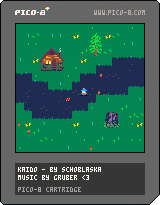
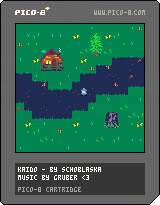
change leaves

diff --git a/docs/kaido.html b/docs/kaido.html
@@ -982,7 +982,7 @@ canvas{
 
 .p8_start_button{
 	cursor:pointer;
[2 lines of base64/hex data omitted]
 	-repeat center;
 	-webkit-background-size:cover; -moz-background-size:cover; -o-background-size:cover; background-size:cover;
 }

diff --git a/docs/kaido.js b/docs/kaido.js
@@ -3,8 +3,8 @@ var _cdpos=0; var iii=0; var ciii=0;
 var _cartdat=[
 0,0,0,0,51,51,51,51,51,51,51,51,51,51,51,51,51,51,51,51,51,51,51,51,51,51,51,51,51,51,33,85,51,51,33,85,17,51,51,51,17,51,51,51,0,0,0,0,0,0,0,0,0,0,0,0,0,0,0,0,0,0,0,0,0,0,0,0,51,51,51,59,51,51,179,51,51,67,51,51,51,52,51,51,51,51,51,51,51,51,51,51,51,19,33,221,51,19,33,221,93,85,81,51,93,85,81,51,0,0,0,0,0,0,0,0,11,0,0,0,11,0,0,0,0,0,0,0,0,7,112,0,51,51,51,59,51,51,51,59,51,51,51,51,51,51,51,51,51,51,51,51,51,51,51,51,51,17,33,221,51,17,33,221,209,17,17,51,209,17,17,51,0,0,0,176,0,0,0,176,11,0,0,0,11,0,0,0,0,0,0,0,0,112,7,0,51,51,51,59,51,51,51,59,51,51,163,57,51,51,163,57,51,51,59,51,51,179,51,51,51,17,209,221,51,17,209,221,17,209,33,51,17,209,33,51,0,0,0,187,0,0,0,187,177,0,0,0,0,0,0,0,0,0,0,0,
 0,112,7,0,179,59,51,51,187,51,51,51,147,57,163,57,147,51,154,51,51,51,59,51,51,51,59,51,51,17,33,209,51,17,33,209,17,221,34,51,17,221,34,51,0,0,176,187,0,0,176,187,187,11,0,0,187,11,0,0,0,0,0,0,0,7,112,0,51,59,51,51,51,59,51,51,51,170,163,51,147,58,163,51,51,51,51,51,51,51,51,51,51,49,17,209,51,129,17,209,129,29,33,51,193,29,33,51,0,0,187,177,0,0,27,187,187,187,0,0,187,187,0,0,0,0,0,0,0,0,0,0,51,51,51,51,51,51,51,51,51,57,51,51,147,57,51,51,51,51,51,51,51,51,51,51,51,17,17,221,51,17,17,221,211,29,33,51,211,29,33,51,0,176,27,181,0,176,17,181,219,177,11,0,29,187,11,0,0,0,0,0,0,0,0,0,51,51,51,51,51,51,51,51,51,51,51,51,51,51,51,51,51,51,51,51,51,51,51,51,19,17,209,221,19,17,209,221,209,29,33,51,209,29,33,51,0,0,176,189,0,0,176,189,180,189,0,0,180,189,0,0,0,0,0,0,
-51,51,51,51,0,0,0,0,0,0,0,0,0,0,0,0,0,0,0,0,51,51,51,51,51,51,51,51,19,17,209,221,19,17,209,221,17,17,17,51,17,17,17,51,0,176,27,187,0,176,27,187,187,27,0,0,187,27,0,0,0,0,0,0,51,51,51,51,0,0,0,0,0,0,2,0,0,0,0,0,0,0,0,0,51,51,51,51,51,51,51,51,51,21,93,29,51,21,93,29,17,211,17,51,17,211,17,51,0,187,11,187,0,187,0,187,187,187,11,0,187,187,11,0,0,0,0,0,51,51,51,51,0,0,0,0,0,32,146,0,0,0,0,0,0,4,0,0,51,51,60,51,51,195,51,51,51,17,81,209,51,17,81,209,209,17,17,53,209,17,17,53,0,0,187,187,0,0,187,187,75,11,0,0,75,0,0,0,0,0,0,0,51,51,51,51,0,132,0,0,0,34,9,0,0,144,144,0,0,64,136,0,51,51,60,51,51,51,60,51,179,17,29,213,187,17,29,213,17,189,17,53,17,27,17,53,0,176,187,177,0,176,187,177,11,181,11,0,0,181,11,0,0,0,0,0,
-51,51,51,51,0,148,0,0,0,146,0,0,0,136,136,0,0,64,8,0,51,51,59,51,51,51,59,51,83,17,219,213,83,177,221,213,29,177,29,177,29,177,29,187,0,0,27,189,0,0,17,189,187,187,176,0,187,11,176,0,0,0,0,0,51,51,51,51,0,73,0,0,0,0,0,0,0,9,9,0,0,64,0,0,51,51,51,51,51,51,51,51,219,209,91,213,219,209,91,213,221,17,93,49,221,17,93,49,0,176,187,75,0,187,187,75,5,187,11,0,5,187,11,0,0,0,0,0,51,51,51,51,0,0,0,0,0,0,0,0,0,0,0,0,0,0,0,0,51,51,51,51,51,51,51,51,29,91,85,91,189,85,85,91,181,209,213,27,181,209,181,27,0,11,187,219,176,11,187,219,187,176,187,0,187,176,187,0,0,0,0,0,51,51,51,51,0,0,0,0,0,0,0,0,0,0,0,0,0,0,0,0,51,51,51,51,51,51,51,51,51,59,17,51,51,59,17,51,49,179,49,51,49,179,49,51,0,0,176,27,0,0,176,27,187,17,0,0,187,1,0,0,0,0,0,0,
+51,51,51,51,0,0,0,0,0,0,0,0,0,0,0,0,0,0,0,0,51,51,51,51,51,51,51,51,19,17,209,221,19,17,209,221,17,17,17,51,17,17,17,51,0,176,27,187,0,176,27,187,187,27,0,0,187,27,0,0,0,0,0,0,51,51,51,51,0,0,0,0,0,0,2,0,0,0,0,0,32,0,0,0,51,51,51,51,51,51,51,51,51,21,93,29,51,21,93,29,17,211,17,51,17,211,17,51,0,187,11,187,0,187,0,187,187,187,11,0,187,187,11,0,0,0,0,0,51,51,51,51,0,32,0,0,0,144,146,0,0,0,0,0,0,36,0,0,51,51,60,51,51,195,51,51,51,17,81,209,51,17,81,209,209,17,17,53,209,17,17,53,0,0,187,187,0,0,187,187,75,11,0,0,75,0,0,0,0,0,0,0,51,51,51,51,0,36,0,0,0,146,2,0,0,192,205,0,0,68,8,0,51,51,60,51,51,51,60,51,179,17,29,213,187,17,29,213,17,189,17,53,17,27,17,53,0,176,187,177,0,176,187,177,11,181,11,0,0,181,11,0,0,0,0,0,
+51,51,51,51,0,144,0,0,0,146,0,0,176,187,187,0,0,64,8,0,51,51,59,51,51,51,59,51,83,17,219,213,83,177,221,213,29,177,29,177,29,177,29,187,0,0,27,189,0,0,17,189,187,187,176,0,187,11,176,0,0,0,0,0,51,51,51,51,0,73,9,0,0,0,0,0,0,220,220,0,0,0,0,0,51,51,51,51,51,51,51,51,219,209,91,213,219,209,91,213,221,17,93,49,221,17,93,49,0,176,187,75,0,187,187,75,5,187,11,0,5,187,11,0,0,0,0,0,51,51,51,51,0,64,0,0,0,0,0,0,0,0,0,0,0,0,0,0,51,51,51,51,51,51,51,51,29,91,85,91,189,85,85,91,181,209,213,27,181,209,181,27,0,11,187,219,176,11,187,219,187,176,187,0,187,176,187,0,0,0,0,0,51,51,51,51,0,0,0,0,0,0,0,0,0,0,0,0,0,0,0,0,51,51,51,51,51,51,51,51,51,59,17,51,51,59,17,51,49,179,49,51,49,179,49,51,0,0,176,27,0,0,176,27,187,17,0,0,187,1,0,0,0,0,0,0,
 17,17,17,17,51,51,51,51,51,51,51,51,51,51,51,51,51,51,51,51,51,195,51,51,51,60,51,51,17,17,17,17,17,17,17,17,0,7,0,0,0,0,0,0,51,179,187,75,51,179,187,75,4,27,59,51,4,27,59,51,0,0,0,0,17,17,17,17,48,48,51,3,3,51,51,48,3,48,0,51,0,3,48,3,0,51,0,3,48,3,48,0,17,17,17,17,17,17,17,17,112,0,0,0,0,0,0,0,51,187,27,187,179,187,17,187,187,176,187,51,187,176,187,51,0,0,0,0,17,17,17,17,0,0,48,0,0,0,3,0,0,0,0,0,0,0,0,0,0,0,0,0,0,0,0,0,17,81,17,17,17,17,81,17,112,0,0,0,0,0,0,0,51,59,179,11,51,59,179,11,221,61,179,51,221,61,59,51,0,0,0,0,17,17,17,17,0,0,0,0,0,0,0,0,0,0,0,0,0,0,0,0,0,0,0,0,0,0,0,0,17,17,17,17,17,17,17,17,0,119,119,0,0,0,0,0,51,51,187,67,51,51,187,68,180,59,51,51,180,59,51,51,0,0,0,0,
 17,17,17,17,0,0,0,0,0,0,0,0,0,0,0,0,0,0,0,0,0,0,0,0,0,0,0,0,81,17,17,17,17,18,17,17,0,0,0,0,0,0,0,0,51,51,59,67,51,179,59,67,52,187,59,51,52,187,51,51,0,0,0,0,17,17,17,17,0,0,0,0,0,0,0,0,0,0,0,0,0,0,0,0,0,0,0,0,0,0,0,0,17,17,17,17,17,17,17,17,0,119,119,0,0,0,0,0,51,51,51,67,51,51,51,67,52,51,51,51,52,51,51,51,0,0,0,0,17,17,17,17,0,0,0,0,0,0,0,0,0,0,0,0,0,0,0,0,0,0,0,0,0,0,0,0,17,17,17,21,17,17,17,17,112,0,0,0,0,0,0,0,51,51,51,212,51,51,51,212,52,51,51,51,52,51,51,51,0,0,0,0,17,17,17,17,0,0,0,0,0,0,0,0,0,0,0,0,0,0,0,0,0,0,0,0,0,0,0,0,17,17,17,17,17,17,17,17,0,119,0,0,0,0,0,0,51,51,67,34,51,51,67,34,77,51,51,51,77,51,51,51,0,0,0,0,
 0,0,0,0,0,0,0,0,0,0,0,0,0,0,0,0,0,0,0,0,0,0,0,0,0,0,0,0,17,17,17,17,17,17,21,17,187,155,188,187,187,153,188,187,0,0,0,0,0,0,0,0,0,0,0,0,0,0,0,0,0,0,0,0,0,0,0,0,0,0,0,0,0,0,0,0,0,0,0,0,0,0,0,0,0,0,0,0,0,0,0,0,17,17,33,17,17,17,17,17,187,221,221,187,219,221,221,187,0,0,0,0,0,0,0,0,0,0,0,0,0,0,0,0,0,0,0,0,0,0,0,0,0,0,0,0,0,0,0,0,0,0,0,0,0,0,0,0,0,0,0,0,0,0,0,0,17,17,17,17,17,17,17,17,203,204,204,188,203,204,204,188,0,0,0,0,0,0,0,0,0,0,0,0,0,0,0,0,0,0,0,0,0,0,0,0,0,0,0,0,0,0,0,0,0,0,0,0,0,0,0,0,0,0,0,0,0,0,0,0,17,17,17,17,17,17,17,17,187,255,95,187,187,255,85,187,0,0,0,0,0,0,0,0,0,0,0,0,0,0,0,0,0,0,0,0,
